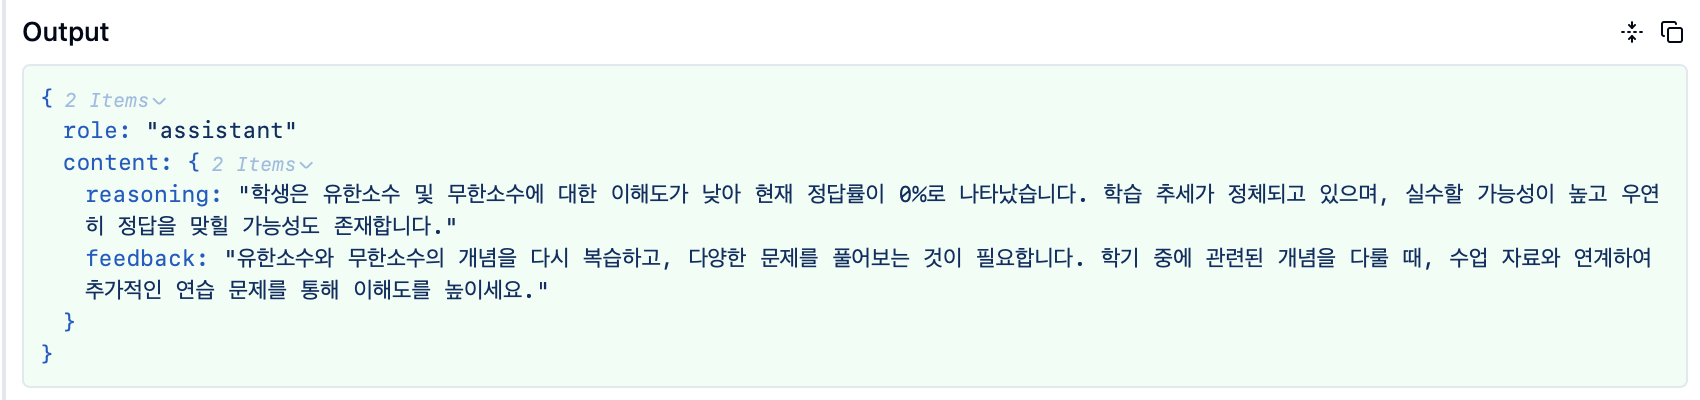
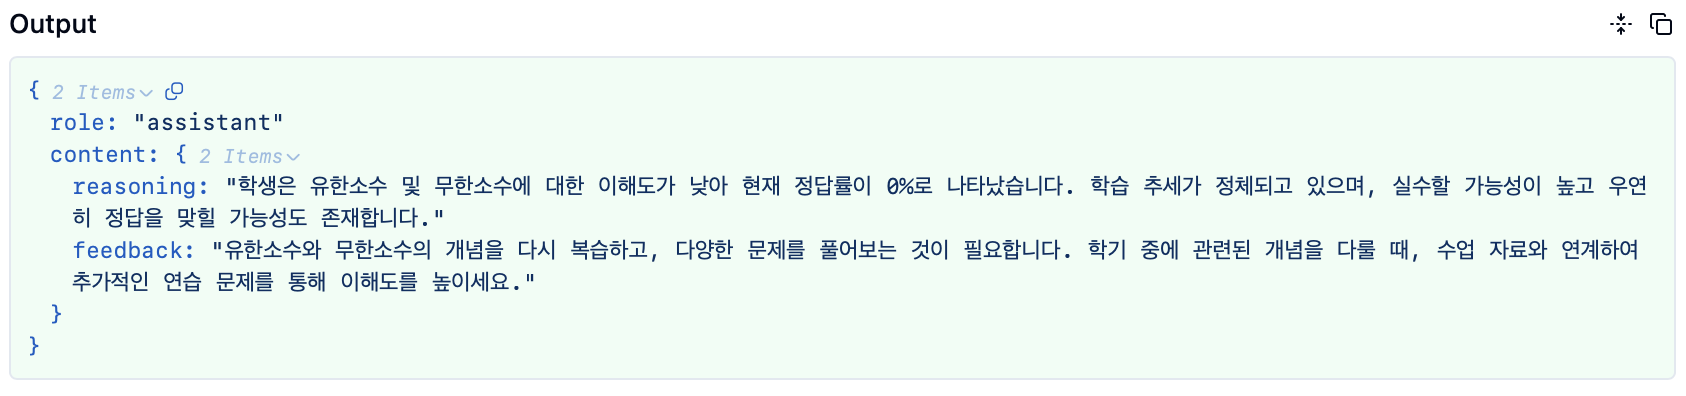
image fixes

Changed region(s): [[0.0, 0.0303, 1.0, 0.9697]]

diff --git a/README.md b/README.md
@@ -69,16 +69,16 @@ Student Interaction History (skill_id, correct) × T timesteps
 ## Key Design Decisions
 
 **1. BKT Parameters as LLM Input**
-Unlike conventional deep learning KT models that output proficiency directly through uninterpretable neural computations, BKTransformer derives proficiency by applying Bayes' theorem to explicit BKT parameters. This provides transparency into how and why each correctness probability was produced.
+- Unlike conventional deep learning KT models that output proficiency directly through uninterpretable neural computations, BKTransformer derives proficiency by applying Bayes' theorem to explicit BKT parameters. This provides transparency into how and why each correctness probability was produced.
 
 **2. Predefined Tool Selection**
-The recommendation agent does not decide which Cypher query to run. The proficiency level from the diagnosis agent determines the query. This guarantees transparency in the GraphRAG retrieval step.
+- The recommendation agent does not decide which Cypher query to run. The proficiency level from the diagnosis agent determines the query. This guarantees transparency in the GraphRAG retrieval step.
 
 **3. MCP for Graph Access**
-Neo4j is accessed via Google GenAI Toolbox (MCP pattern) rather than a direct driver. This decouples the graph interface from the agent code and makes the tool layer independently testable and replaceable.
+- Neo4j is accessed via Google GenAI Toolbox (MCP pattern) rather than a direct driver. This decouples the graph interface from the agent code and makes the tool layer independently testable and replaceable.
 
 **4. Langfuse for Full Observability**
-Every pipeline run is traced end-to-end: BKT output, LLM prompts/responses, graph context, and final feedback. This supports human expert evaluation and iterative prompt improvement.
+- Every pipeline run is traced end-to-end: BKT output, LLM prompts/responses, graph context, and final feedback. This supports human expert evaluation and iterative prompt improvement.
 
 ---
 
